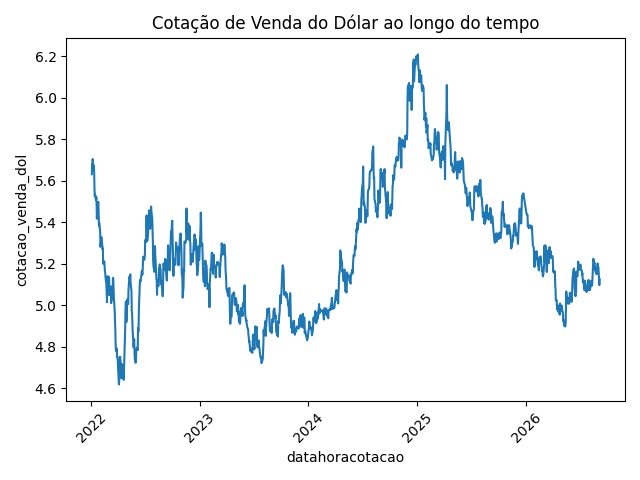
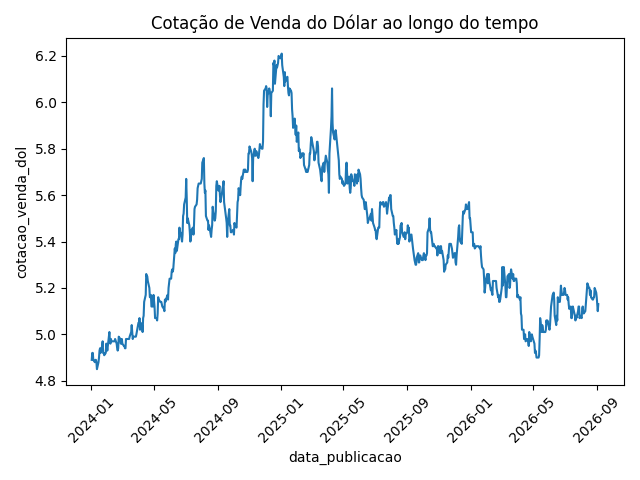
update joins and tables

diff --git a/include/scripts/variacoes_cambio.py b/include/scripts/variacoes_cambio.py
@@ -11,22 +11,26 @@ engine = sa.create_engine(CONN_STR)
 
 def joins_cambio():
     # Lê os dados das tabelas Gold
-    df_dol = pd.read_sql("SELECT * FROM public.gold_dol_cambio ORDER BY Data_Publicacao", engine)
-    df_euro = pd.read_sql("SELECT * FROM public.gold_euro_cambio ORDER BY Data_Publicacao", engine)
+    df_dol = pd.read_sql("SELECT * FROM public.gold_dol_cambio ORDER BY data_publicacao", engine)
+    df_euro = pd.read_sql("SELECT * FROM public.gold_euro_cambio ORDER BY data_publicacao", engine)
+
+    # Deleta registros duplicados de boletim + data 
+    df_dol = df_dol.drop_duplicates(subset=["data_publicacao", "tipoboletim"], keep="last")
+    df_euro = df_euro.drop_duplicates(subset=["data_publicacao", "tipoboletim"], keep="last")
 
     # Faz o merge pelo campo de data
     df = pd.merge(
         df_dol,
         df_euro,
-        left_on=["Data_Publicacao", "tipoboletim"],
-        right_on=["Data_Publicacao", "tipoboletim"],
+        left_on=["data_publicacao", "tipoboletim"],
+        right_on=["data_publicacao", "tipoboletim"],
         how="inner",
         suffixes=("_dol", "_euro")
     )
 
     # Seleciona e renomeia colunas
     df = df[[
-        "Data_Publicacao", "tipoboletim",
+        "data_publicacao", "tipoboletim", "hora_publicacao_dol", "hora_publicacao_euro",
         "cotacao_venda_dol", "cotacao_venda_euro",
         "cotacao_compra_dol", "cotacao_compra_euro"
     ]]
@@ -35,6 +39,7 @@ def joins_cambio():
     df["variacao_compra_moeda"] = (df["cotacao_compra_dol"] - df["cotacao_compra_euro"]).round(3)
     df["variacao_venda_moeda"] = (df["cotacao_venda_dol"] - df["cotacao_venda_euro"]).round(3)
 
+    # Registra dados 
     rows = df.to_dict(orient="records")
 
     metadata = sa.MetaData()
@@ -44,8 +49,9 @@ def joins_cambio():
         "cambio_eur_usd",
         metadata,
         sa.Column("id", sa.Integer, primary_key=True, autoincrement=True),
-        sa.Column("Data_Publicacao", sa.Date, nullable=False),
-        sa.Column("Hora_Publicacao", sa.Time, nullable=False),
+        sa.Column("data_publicacao", sa.Date, nullable=False),
+        sa.Column("hora_publicacao_dol", sa.Time, nullable=False),
+        sa.Column("hora_publicacao_euro", sa.Time, nullable=False),
         sa.Column("cotacao_venda_dol", sa.Numeric(10,2)),
         sa.Column("cotacao_venda_euro", sa.Numeric(10,2)),
         sa.Column("cotacao_compra_dol", sa.Numeric(10,2)),
@@ -53,24 +59,24 @@ def joins_cambio():
         sa.Column("variacao_compra_moeda", sa.Numeric(10,3)),
         sa.Column("variacao_venda_moeda", sa.Numeric(10,3)),
         sa.Column("tipoboletim", sa.String(50), nullable=False), 
-        sa.UniqueConstraint("Data_Publicacao", "tipoboletim", name="unq_data_boletim"),
+        sa.UniqueConstraint("data_publicacao", "tipoboletim", name="unq_data_boletim"),
         extend_existing=True
     )
 
     metadata.create_all(engine)
 
     with engine.begin() as conn:
-        #Apaga dados antigos
-        conn.execute(sa.text("DELETE FROM cambio_eur_usd"))
-        
+
     # Faz o upsert
         stmt = insert(cambio_eur_usd).values(rows)
+
         stmt = stmt.on_conflict_do_update(
-            index_elements=["Data_Publicacao", "tipoboletim"],
+            index_elements=["data_publicacao", "tipoboletim"],
             set_={
+                "hora_publicacao_dol" : stmt.excluded.hora_publicacao_dol,
+                "hora_publicacao_euro" : stmt.excluded.hora_publicacao_euro,
                 "cotacao_venda_dol": stmt.excluded.cotacao_venda_dol,
                 "cotacao_venda_euro": stmt.excluded.cotacao_venda_euro,
-                "tipoboletim": stmt.excluded.tipoboletim,
                 "cotacao_compra_dol": stmt.excluded.cotacao_compra_dol,
                 "cotacao_compra_euro": stmt.excluded.cotacao_compra_euro,
                 "variacao_compra_moeda": stmt.excluded.variacao_compra_moeda,

diff --git a/include/scripts/Gold_euro.py b/include/scripts/Gold_euro.py
@@ -15,10 +15,10 @@ def gold_euro_data():
     df = pd.read_sql("SELECT * FROM public.silver_euro_cambio ORDER BY datahoracotacao", engine)
 
     # Modificar Coluna Datahoracotacao > Data
-    df["Data_Publicacao"] = df["datahoracotacao"].dt.date
+    df["data_publicacao"] = df["datahoracotacao"].dt.date
 
     # Criar nova coluna para armazenar Hora
-    df["Hora_Publicacao"] = df["datahoracotacao"].dt.time
+    df["hora_publicacao"] = df["datahoracotacao"].dt.time
 
     # Estipular 2 casas decimais para Cotacoes
     df['cotacao_compra'] = df['cotacao_compra'].round(2)
@@ -35,7 +35,7 @@ def gold_euro_data():
 
     # Selecionar Colunas
     df = df[[
-    "id", "Data_Publicacao", "Hora_Publicacao", "cotacao_compra", "cotacao_venda",
+    "id", "data_publicacao", "hora_publicacao", "cotacao_compra", "cotacao_venda",
     "variacao_venda", "variacao_compra", "variacao_pct_venda", "variacao_pct_compra",
     "tipoboletim"
     ]]
@@ -52,13 +52,14 @@ def gold_euro_data():
         sa.Column("id", sa.Integer, primary_key=True, autoincrement=True),
         sa.Column("cotacao_compra", sa.Numeric(10,2), nullable=False),
         sa.Column("cotacao_venda", sa.Numeric(10,2), nullable=False),
-        sa.Column("Data_Publicacao", sa.Date, nullable=False),
-        sa.Column("Hora_Publicacao", sa.Time, nullable=False),
+        sa.Column("data_publicacao", sa.Date, nullable=False),
+        sa.Column("hora_publicacao", sa.Time, nullable=False),
         sa.Column("variacao_venda", sa.Numeric(10,3)),
         sa.Column("variacao_compra", sa.Numeric(10,3)),
         sa.Column("variacao_pct_venda", sa.Numeric(10,3)),
         sa.Column("variacao_pct_compra", sa.Numeric(10,3)),
         sa.Column("tipoboletim", sa.String(50)),
+        sa.UniqueConstraint("data_publicacao", "hora_publicacao", name="uq_gold_euro_data_hora"),
         extend_existing=True
     )
 
@@ -66,13 +67,12 @@ def gold_euro_data():
     metadata.create_all(engine)
 
     with engine.begin() as conn:
-        # Apaga dados antigos
-        conn.execute(sa.text("DELETE FROM gold_euro_cambio"))
 
     # Faz o upsert das colunas
         stmt = insert(gold_euro).values(rows)
+
         stmt = stmt.on_conflict_do_update(
-            index_elements=["Data_Publicacao", "Hora_Publicacao"],
+            index_elements=["data_publicacao", "hora_publicacao"],
             set_={
                 "cotacao_compra": stmt.excluded.cotacao_compra,
                 "cotacao_venda": stmt.excluded.cotacao_venda,

diff --git a/include/scripts/Gold_dol.py b/include/scripts/Gold_dol.py
@@ -15,10 +15,10 @@ def gold_dol_data():
     df = pd.read_sql("SELECT * FROM public.silver_dol_cambio ORDER BY datahoracotacao", engine)
 
     # Modificar Coluna Datahoracotacao > Data
-    df["Data_Publicacao"] = df["datahoracotacao"].dt.date
+    df["data_publicacao"] = df["datahoracotacao"].dt.date
 
     # Criar nova coluna para armazenar Hora
-    df["Hora_Publicacao"] = df["datahoracotacao"].dt.time
+    df["hora_publicacao"] = df["datahoracotacao"].dt.time
 
     # Estipular 2 casas decimais para Cotacoes
     df['cotacao_compra'] = df['cotacao_compra'].round(2)
@@ -35,7 +35,7 @@ def gold_dol_data():
 
     # Selecionar Colunas
     df = df[[
-    "id", "Data_Publicacao", "Hora_Publicacao", "cotacao_compra", "cotacao_venda",
+    "id", "data_publicacao", "hora_publicacao", "cotacao_compra", "cotacao_venda",
     "variacao_venda", "variacao_compra", "variacao_pct_venda", "variacao_pct_compra",
     "tipoboletim"
     ]]
@@ -51,13 +51,14 @@ def gold_dol_data():
         sa.Column("id", sa.Integer, primary_key=True, autoincrement=True),
         sa.Column("cotacao_compra", sa.Numeric(10,2), nullable=False),
         sa.Column("cotacao_venda", sa.Numeric(10,2), nullable=False),
-        sa.Column("Data_Publicacao", sa.Date, nullable=False),
-        sa.Column("Hora_Publicacao", sa.Time, nullable=False),
+        sa.Column("data_publicacao", sa.Date, nullable=False),
+        sa.Column("hora_publicacao", sa.Time, nullable=False),
         sa.Column("variacao_venda", sa.Numeric(10,3)),
         sa.Column("variacao_compra", sa.Numeric(10,3)),
         sa.Column("variacao_pct_venda", sa.Numeric(10,3)),
         sa.Column("variacao_pct_compra", sa.Numeric(10,3)),
         sa.Column("tipoboletim", sa.String(50)),
+        sa.UniqueConstraint("data_publicacao", "hora_publicacao", name="uq_gold_dol_data_hora"),
         extend_existing=True
     )
 
@@ -65,13 +66,11 @@ def gold_dol_data():
     metadata.create_all(engine)
 
     with engine.begin() as conn:
-        # Apaga dados antigos
-        conn.execute(sa.text("DELETE FROM gold_dol_cambio"))
 
-    # Faz o upsert das colunas
         stmt = insert(gold_dol).values(rows)
+
         stmt = stmt.on_conflict_do_update(
-            index_elements=["Data_Publicacao", "Hora_Publicacao"],
+            index_elements=["data_publicacao", "hora_publicacao"],
             set_={
                 "cotacao_compra": stmt.excluded.cotacao_compra,
                 "cotacao_venda": stmt.excluded.cotacao_venda,

diff --git a/include/scripts/graficos.py b/include/scripts/graficos.py
@@ -21,7 +21,7 @@ def graph_py(output_dir="/opt/airflow/output_charts"):
 
     #Grafico de linha cotacao dol
 
-    sns.lineplot(data=df, x="datahoracotacao", y="cotacao_venda_dol")
+    sns.lineplot(data=df, x="data_publicacao", y="cotacao_venda_dol")
     plt.title("Cotação de Venda do Dólar ao longo do tempo")
     plt.xticks(rotation=45)
     plt.tight_layout()
@@ -41,21 +41,24 @@ def graph_sql(output_dir="/opt/airflow/output_charts"):
     os.makedirs(output_dir, exist_ok=True)
 
     query_sql = """
-        SELECT DATE_TRUNC('month', datahoracotacao) AS mes,
+        SELECT DATE_TRUNC('month', data_publicacao) AS mes,
             AVG(cotacao_venda_dol) AS media_dolar,
             AVG(cotacao_venda_euro) AS media_euro
         FROM public.cambio_eur_usd
+        WHERE data_publicacao >= '2025-09-01'
         GROUP by mes
         ORDER BY mes
     """
     df = pd.read_sql(query_sql, engine)
 
-    #Grafico de barras comparando medias mensais
+    # Formata a coluna 'mes' para apenas Ano-Mês ou Mês/Ano
+    df["mes"] = pd.to_datetime(df["mes"]).dt.strftime("%Y-%m")
 
-    df.plot(x="mes", y =["media_dolar", "media_euro"], kind="bar")
+    # Plota o gráfico (xlabel="" remove a legenda 'mes' do rodapé)
+    ax = df.plot(x="mes", y=["media_dolar", "media_euro"], kind="bar", xlabel="")
+    
     plt.title("Média mensal das cotações de venda (USD vs EUR)")
-    plt.xticks(rotation=45)
+    plt.xticks(rotation=45, ha="right")
     plt.tight_layout()
     plt.savefig(os.path.join(output_dir, "grafico_medias_mensais.png"))
     plt.close()
-
